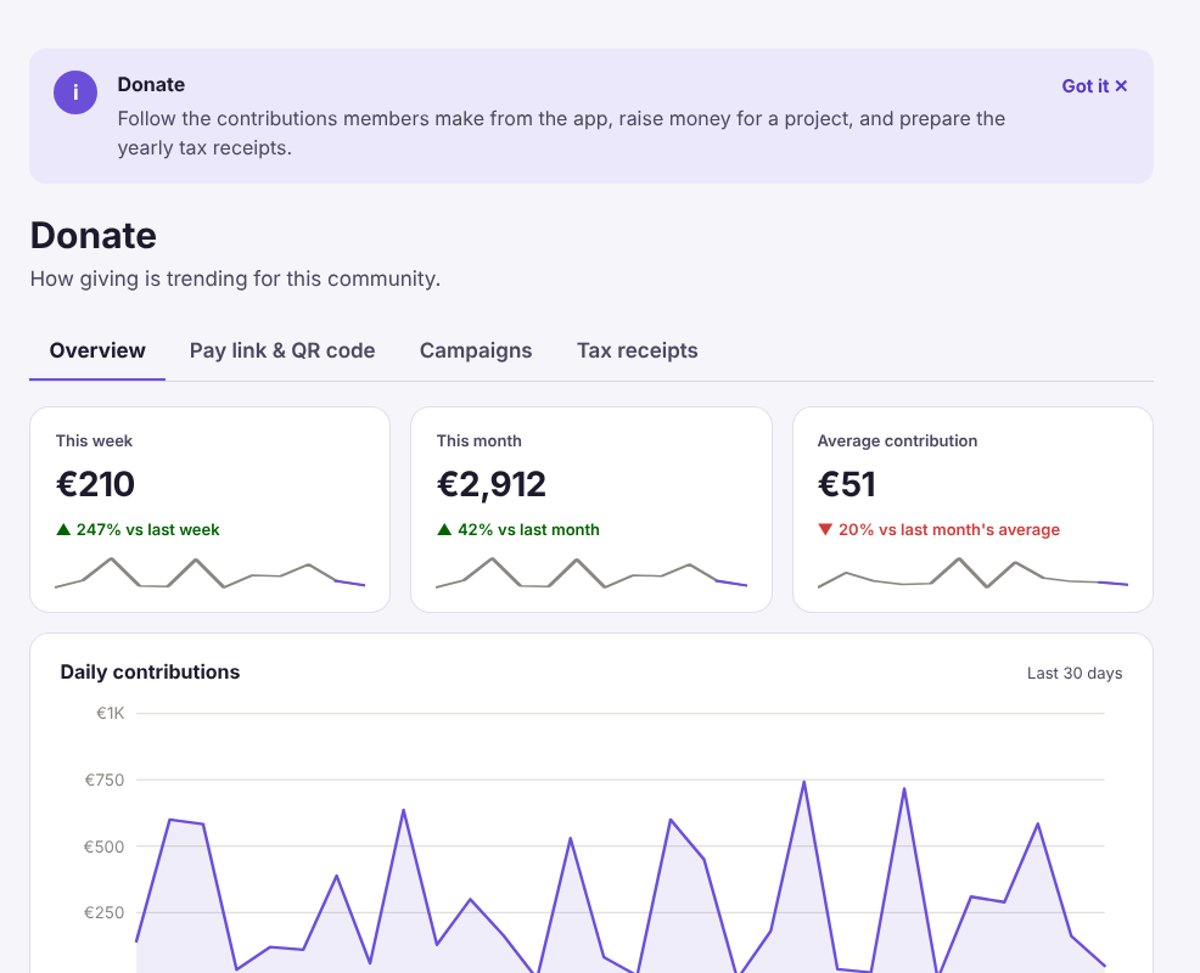
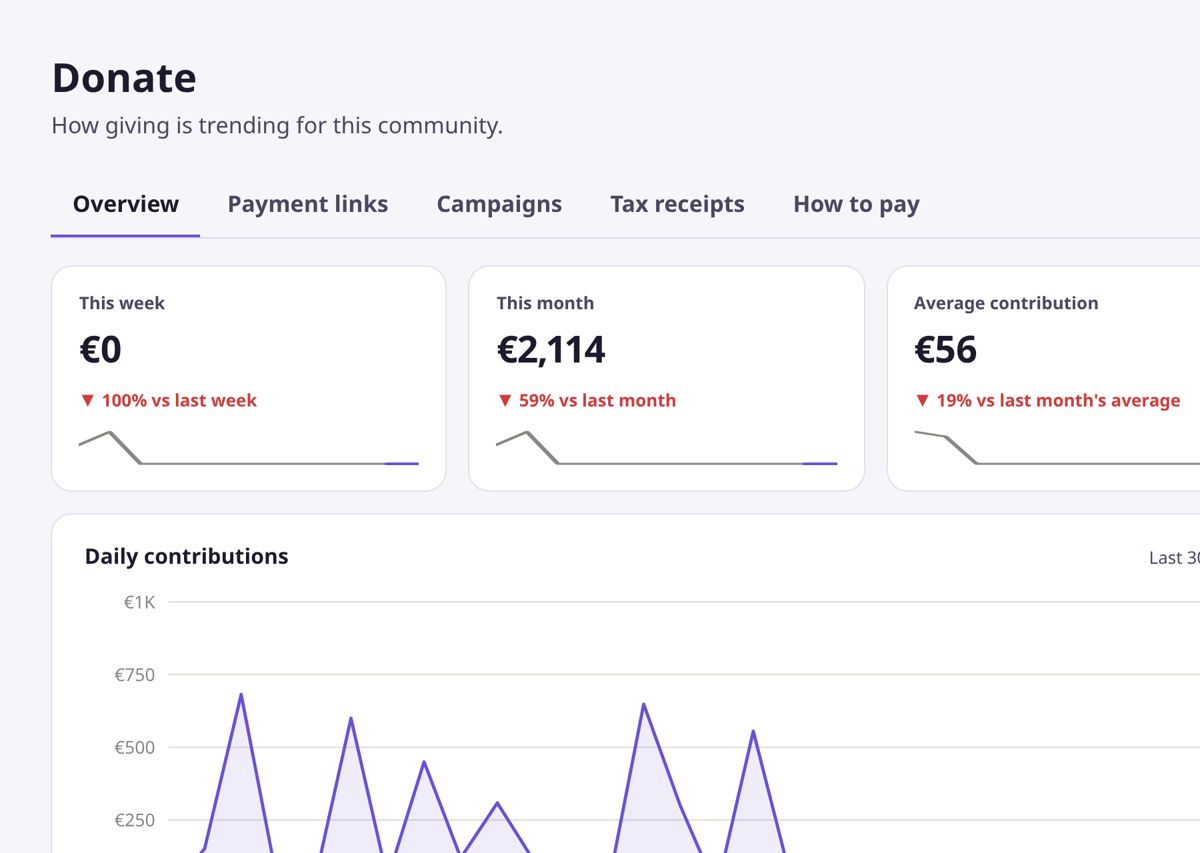
Retake Learn more admin screenshots, update the admin assistant's guide

diff --git a/backend/src/assistant/admin-guide.ts b/backend/src/assistant/admin-guide.ts
@@ -21,16 +21,15 @@ Community website (near the bottom of the menu) gives the community a public web
 Start here each day. "To do" lists what is waiting: new requests to open, members waiting for an answer, documents received to check, Mass intentions to tick off as said, home page messages past their last day, free trials ending this week. "Key figures": contributions this month compared with last month, new members, prayer requests. "This week": everything planned in the next seven days. The Dashboard also has an Account tab: the content language (the language the team writes in), "Tour and tips" to see the welcome tour again, download all the community's data as a ZIP, and close the community's account (it disappears for members after 30 days and the closing can be cancelled until then; gifts and tax receipts are kept locked as the law requires).
 
 # Home page
-The first screen members see when they open the community in the app, before they pick anything in the menu. It has five tabs: Badges, Page sections, Bottom menu, Personalise, Address & map. A live phone preview on the right shows the result as you type; dashed outlines show what is not saved yet.
-- Page sections: add a section (a text with a heading, an image with a caption, or a section that fills itself: upcoming events, past events, latest announcements, next livestream, donate button, celebration times). Move sections up or down; they show in that order. With no sections, members see the community description from Home page › Personalise; "Start from the default page" adds a ready-made page. "Celebration times" is built from the weekly events on the Events page (set their kind and "Every week").
-- Badges at the top of the page: small tiles such as Next Mass, Open / closed (from the opening hours in the calendar), Next confessions, Campaign (percentage raised). Switch each on or off and order them with the arrows. "+ Add a message" adds a short text badge (e.g. "Closed on Monday 29th"), optionally important (purple), opening a module on tap, and shown until a date.
+The first screen members see when they open the community in the app, before they pick anything in the menu. It has four tabs: Badges, Page sections, Bottom menu, Identity. A live phone preview on the right shows the result as you type (pick its language under the phone); dashed outlines show what is not saved yet. Lists are put in order by dragging the ⠿ grip of a row (or with the arrow keys on it); rare actions such as Remove sit behind the ⋯ button of a row.
+- Page sections: add a section (a text with a heading, an image with a caption, or a section that fills itself: upcoming events, past events, latest announcements, next livestream, donate button, celebration times). Drag sections to change their order; they show in that order. Edit any section, then one "Save" at the bottom saves every change. Remove a section from its ⋯ menu. With no sections, members see the community description from Home page › Identity; "Start from the default page" adds a ready-made page. "Celebration times" is built from the weekly events on the Events page (set their kind and "Every week").
+- Badges at the top of the page: small tiles such as Next Mass, Open / closed (from the opening hours in the calendar), Next confessions, Campaign (percentage raised). Switch each on or off and drag them into order; edit or delete a message badge from its ⋯ menu. "+ Add a message" adds a short text badge (e.g. "Closed on Monday 29th"), optionally important (purple), opening a module on tap, and shown until a date.
 - Versions: the "Versions" button under the Home page title (it shows "Live: <name>" once a version is saved). "Save the current page as a version" keeps the sections and badges under a name (e.g. Christmas, a campaign). "Use this version" puts a saved page live; the current page is kept first (in the live version, or an automatic copy), so you can always go back. Up to 5 versions per community; rename or delete them in the list. The bottom menu is the same for every version.
-- Bottom menu: the order of the buttons at the bottom of the app. Home is always first and More always last; the first three modules on the list get a button, the others go under More.
-- Personalise: the colour of buttons, banner and selected tab in the app (purple, ocean, forest, terracotta, ruby, teal, graphite), then the community's name, description and logo (square PNG/JPEG/WebP at least 256 × 256 pixels, shown in a circle in the app header).
-- Address & map: kind of community, which only infunion can change; address; pin on the map; "Visible on the infunion map" so people nearby find it in "Near you".
+- Bottom menu: the order of the buttons at the bottom of the app. Home is always first and More always last; the first three modules on the list get a button, the others go under More. Drag the modules into order, then "Save order".
+- Identity: the colour of buttons, banner and selected tab in the app (purple, ocean, forest, terracotta, ruby, teal, graphite; saved as soon as you pick it), the community's name, description and logo (square PNG/JPEG/WebP at least 256 × 256 pixels, shown in a circle in the app header), then the address: kind of community, which only infunion can change; address; pin on the map; "Visible on the infunion map" so people nearby find it in "Near you".
 
 # Members
-Everyone who joined the community in the app. Search by name or phone. With the Messages module, "Send a private message" writes to one member: they get a notification and can answer in the app; the number in the menu shows messages waiting for an answer. Without the Messages module the page offers it (Essentials plan). A member's data can be exported, and a member can be removed from the community when they ask (their requests, prayer requests, posts and messages there are deleted; contributions stay, as the law requires). To invite people, share the QR code, or use the community's own list:
+Everyone who joined the community in the app. Search by name or phone. With the Messages module, "See private messages" on a member's row writes to one member: they get a notification and can answer in the app; the number in the menu shows messages waiting for an answer. Without the Messages module the page offers it (Essentials plan). From a member's ⋯ menu, their data can be exported, and they can be removed from the community when they ask (their requests, prayer requests, posts and messages there are deleted; contributions stay, as the law requires). To invite people, share the QR code, or use the community's own list:
 - Two tabs: "In the app" (members who joined) and "Not in the app yet" (people on the community's list who have not signed in yet, shown with a dashed circle and their status: not in the app yet, invited, or asked to stop messages). Filter by status or group, search, edit or remove someone, export their data, "Add someone" by hand.
 - "Import a list": choose an Excel (.xlsx) or CSV file, or paste cells from a spreadsheet (from Google Sheets: File › Download › Microsoft Excel). Match each column to a field (first name, last name, full name, email, phone, WhatsApp, Telegram, language, groups, or "Don't import"), tick that these people are members who gave their details, then "Check" shows who is new, who is already in the app, who is already on the list (only missing details are added), rows that were the same person (merged), and rows with no valid email or phone (left out). Nothing is saved before "Import". Spanish phones without +34 get it added. At most 5,000 rows at a time.
 - When someone on the list signs in to the app with the same email or phone, they join the community and move to "In the app" on their own (a church asks them for the religious-data consent first).
@@ -44,24 +43,25 @@ What members ask the team for from the app: a registration for an activity, a ce
 The community's calendar: activities, meetings, celebrations and opening hours. Tabs: Regular, Upcoming, Past. "+ New event": title, kind (in churches Mass, Confession, Adoration, Prayer; everywhere Opening hours and Other), date and time, optional end time, location and description. "Repeats": only once, every day, some days of the week (shortcuts Monday to Friday, the weekend), or once a month (e.g. the first Friday, or day 15). A repeating event can have a last date, and "Except these days" removes single dates with an optional reason shown in the app. Regular events are the community's weekly timetable in the app, and feed the home page "Celebration times" section and the Next Mass / Open-closed badges. Opening hours are events of the kind "Opening hours". A preview shows how members will see the event as you type.
 
 # Announcements (News)
-Post news: title, text, optional photo, optional voice message. Style Normal or Important (stands out). "Notify members on their phones" sends a push notification once, on publishing (paid plans). The newest post shows its photo big at the top of the News tab in the app. Posts can be edited or deleted.
+"+ New announcement" opens the form: title, text, optional photo, optional voice message. Style Normal or Important (stands out). "Notify members on their phones" sends a push notification once, on publishing (paid plans). The newest post shows its photo big at the top of the News tab in the app. Posts can be edited or deleted.
 
 # Donate (Donations module, free on every plan)
-Members pay a fee or give once or every month from the app, by card. Tabs: Overview (this week, this month, average contribution, daily chart, recent contributions), Campaigns, Tax receipts. infunion keeps a small share of each contribution.
-- Campaigns: a project to raise money for (roof, organ, trip): title, description, optional goal and end date, photo, and optional "Where the money goes" lines that add up to 100 %. Show or hide a campaign in the app; members see how close it is to the goal.
-- Tax receipts: fill in the legal name, tax number and signatory of the legal body that issues the receipts, and the tax scheme (Spain: Ley 49/2002, or foundation/association outside it at 10 %, or no deduction). One receipt a year per person who asked for one when giving; open it to print or save as PDF. Download the list or every gift as CSV, and the Modelo 182 file for the Agencia Tributaria (due by 31 January; givers without a valid NIF or Spanish postcode are listed to fix first).
+Members pay a fee or give once or every month from the app, by card. Tabs: Overview (this week, this month, average contribution, daily chart, recent contributions), Payment links, Campaigns, Tax receipts, How to pay (the community's Stripe account and an optional Bizum number; until a way to pay is set up, this shows above the tabs instead).
+- Payment links: a link and QR code anyone can pay with, no app needed. Pick a link to edit its message, amount and whether to ask the payer's name; "Copy link", and "Share" for WhatsApp, the QR code, the printable poster and opening the page. infunion keeps a small share of each contribution.
+- Campaigns: a project to raise money for (roof, organ, trip): title, description, optional goal and end date, photo, and optional "Where the money goes" lines that add up to 100 %. Show or hide a campaign in the app, or delete it, from its ⋯ menu; members see how close it is to the goal.
+- Tax receipts: once, fill in (then "Edit" to change) the legal name, tax number and signatory of the legal body that issues the receipts, and the tax scheme (Spain: Ley 49/2002, or foundation/association outside it at 10 %, or no deduction). One receipt a year per person who asked for one when giving; open it to print or save as PDF. "Download" gives the list or every gift as CSV, and the Modelo 182 file for the Agencia Tributaria (due by 31 January; givers without a valid NIF or Spanish postcode are listed to fix first).
 
 # Mass intentions (churches, Complete plan)
-Masses asked for someone, from the app (with the offering paid online) or taken in person ("Add one taken in person": intention, asked by, contact, date or celebration, offering received). Listed by celebration for the celebrant; print the list; mark as celebrated or take off the list. Set the offering for one intention, or leave it empty to let people choose.
+Masses asked for someone, from the app (with the offering paid online) or taken in person ("+ Add an intention": intention, asked by, contact, date or celebration, offering received). Tabs: Still to be said, Whole register, Offering. Listed by celebration for the celebrant; print the list; "Mark as celebrated" on each, or "Mark all as celebrated" for a celebration; Move or Take off the list from the ⋯ menu. In the Offering tab, set the offering for one intention, or leave it empty to let people choose.
 
 # Prayer requests (places of worship, Complete plan)
 Members share a prayer intention in the app and others pray for it. The team can remove one that should not be public.
 
 # Daily readings (places of worship, Complete plan)
-The texts members read each day. Prepare days ahead; each published day appears in the app at midnight on its date. Days show as Published, Draft or Nothing yet.
+The texts members read each day. Prepare days ahead; each published day appears in the app at midnight on its date. Days show as Published, Draft or Nothing yet. Each text has a kind (first reading, psalm, second reading, Gospel, other). Save as a draft, unpublish or delete a day from the ⋯ menu next to Save. The tab "Link to the full readings" sets an official site for the day's full texts.
 
 # Livestreams (Complete plan)
-Add a title, the link (URL) of a service or gathering streamed live or recorded, and the time. Members find it in the app at the right time and are told when it is live.
+"+ Schedule a livestream": a title, the link (URL) of a service or gathering streamed live or recorded, and the time. Members find it in the app at the right time and are told when it is live.
 
 # Our group (Complete plan)
 Where members post and reply to each other. The team moderates: remove a post or reply. The Reported tab lists what members reported (please decide within 24 hours): keep it, remove it, or remove and block the author from posting. Blocked people still use the app but cannot post, reply or share a prayer request.
@@ -71,7 +71,7 @@ Three plans. A paid plan can be tried free for one month, once per community. Ye
 - Basic, free: Events, Donate. No push notifications.
 - Essentials, 39 € a month or 390 € a year: everything in Basic plus push notifications (event reminders, new announcements, messages, replies to requests), Announcements, Requests & bookings, Messages.
 - Complete, 59 € a month or 590 € a year: everything in Essentials plus Our group, Livestream, Prayer requests and Daily readings (places of worship), Mass intentions (churches), automatic translation of posts for members, and the AI assistant for members.
-Each module in the plan can be shown or hidden in the app at no cost. "Learn more" on a module shows what the team does in the admin and what members get in the app. Sometimes infunion offers a plan: then no payment is needed.
+Two tabs: Modules, and Plan and billing. Each module in the plan has a switch to show or hide it in the app at no cost. "Learn more" on a module shows what the team does in the admin and what members get in the app. Sometimes infunion offers a plan: then no payment is needed.
 
 # QR code to join
 A printable flyer with the community's QR code, an editable headline and welcome message. Print it or save as PDF and put it up where people pass by. Scanning it gets people the app and into the community in seconds. Members can also type the community code.

diff --git a/admin/src/i18n/translations.ts b/admin/src/i18n/translations.ts
@@ -2277,7 +2277,7 @@ const en: Translations = {
     loading: 'Loading the page…',
     loadError: "Couldn't load this page.",
     saveError: "Couldn't save that change.",
-    empty: "You have no sections yet, so people see your community's description in Home page › Personalise.",
+    empty: "You have no sections yet, so people see your community's description in Home page › Identity.",
     useDefault: 'Start from the default page',
     addSection: 'Add a section',
     moveUp: 'Move up',
@@ -3770,7 +3770,7 @@ const es: Translations = {
     loading: 'Cargando la página…',
     loadError: 'No se pudo cargar esta página.',
     saveError: 'No se pudo guardar ese cambio.',
-    empty: "Todavía no tienes secciones, así que la gente ve la descripción de tu comunidad (Página de inicio › Personalización).",
+    empty: "Todavía no tienes secciones, así que la gente ve la descripción de tu comunidad (Página de inicio › Identidad).",
     useDefault: 'Empezar con la página por defecto',
     addSection: 'Añadir una sección',
     moveUp: 'Subir',
@@ -5263,7 +5263,7 @@ const fr: Translations = {
     loading: 'Chargement de la page…',
     loadError: 'Impossible de charger cette page.',
     saveError: "Impossible d'enregistrer cette modification.",
-    empty: "Vous n'avez pas encore de sections, donc les gens voient la description de votre communauté (Page d'accueil › Personnalisation).",
+    empty: "Vous n'avez pas encore de sections, donc les gens voient la description de votre communauté (Page d'accueil › Identité).",
     useDefault: 'Partir de la page par défaut',
     addSection: 'Ajouter une section',
     moveUp: 'Monter',
@@ -6756,7 +6756,7 @@ const va: Translations = {
     loading: 'Carregant la pàgina…',
     loadError: 'No s’ha pogut carregar esta pàgina.',
     saveError: 'No s’ha pogut guardar eixe canvi.',
-    empty: "Encara no tens seccions, així que la gent veu la descripció de la teua comunitat (Pàgina d’inici › Personalització).",
+    empty: "Encara no tens seccions, així que la gent veu la descripció de la teua comunitat (Pàgina d’inici › Identitat).",
     useDefault: 'Començar amb la pàgina per defecte',
     addSection: 'Afegir una secció',
     moveUp: 'Pujar',
@@ -8249,7 +8249,7 @@ const ca: Translations = {
     loading: 'Carregant la pàgina…',
     loadError: 'No s’ha pogut carregar aquesta pàgina.',
     saveError: 'No s’ha pogut desar aquest canvi.',
-    empty: "Encara no tens seccions, així que la gent veu la descripció de la teva comunitat (Pàgina d’inici › Personalització).",
+    empty: "Encara no tens seccions, així que la gent veu la descripció de la teva comunitat (Pàgina d’inici › Identitat).",
     useDefault: 'Començar amb la pàgina per defecte',
     addSection: 'Afegir una secció',
     moveUp: 'Pujar',
@@ -9742,7 +9742,7 @@ const gl: Translations = {
     loading: 'Cargando a páxina…',
     loadError: 'Non se puido cargar esta páxina.',
     saveError: 'Non se puido gardar ese cambio.',
-    empty: "Aínda non tes seccións, así que a xente ve a descrición da túa comunidade (Páxina de inicio › Personalización).",
+    empty: "Aínda non tes seccións, así que a xente ve a descrición da túa comunidade (Páxina de inicio › Identidade).",
     useDefault: 'Comezar coa páxina por defecto',
     addSection: 'Engadir unha sección',
     moveUp: 'Subir',
@@ -11235,7 +11235,7 @@ const pt: Translations = {
     loading: 'A carregar a página…',
     loadError: 'Não foi possível carregar esta página.',
     saveError: 'Não foi possível guardar essa alteração.',
-    empty: "Ainda não tem secções, por isso as pessoas veem a descrição da sua comunidade (Página inicial › Personalização).",
+    empty: "Ainda não tem secções, por isso as pessoas veem a descrição da sua comunidade (Página inicial › Identidade).",
     useDefault: 'Começar com a página predefinida',
     addSection: 'Adicionar uma secção',
     moveUp: 'Subir',

diff --git a/admin/src/pages/MassIntentionsPage.tsx b/admin/src/pages/MassIntentionsPage.tsx
@@ -134,9 +134,6 @@ export function MassIntentionsPage() {
   const [tab, setTab] = useTab(['upcoming', 'all', 'offering'] as const);
   // The Offering tab keeps the list it came from loaded behind it.
   const [filter, setFilter] = useState<IntentionFilter>(tab === 'all' ? 'all' : 'upcoming');
-  useEffect(() => {
-    if (tab !== 'offering') setFilter(tab);
-  }, [tab]);
   const [addOpen, setAddOpen] = useState(false);
   const [items, setItems] = useState<MassIntention[] | null>(null);
   const [events, setEvents] = useState<Event[]>([]);
@@ -326,6 +323,7 @@ export function MassIntentionsPage() {
           onChange={(key) => {
             setTab(key);
             if (key !== 'offering' && key !== filter) {
+              setFilter(key);
               setItems(null);
               setError(null);
             }
